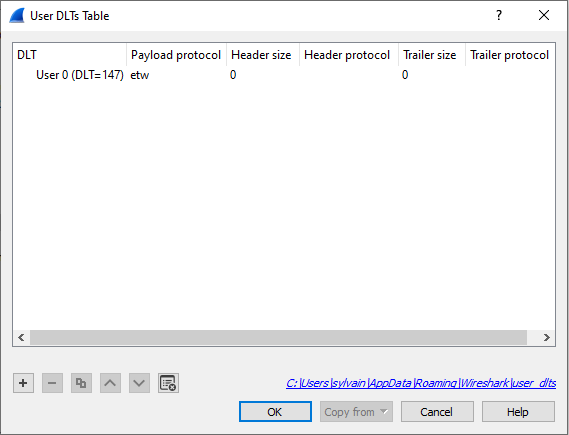
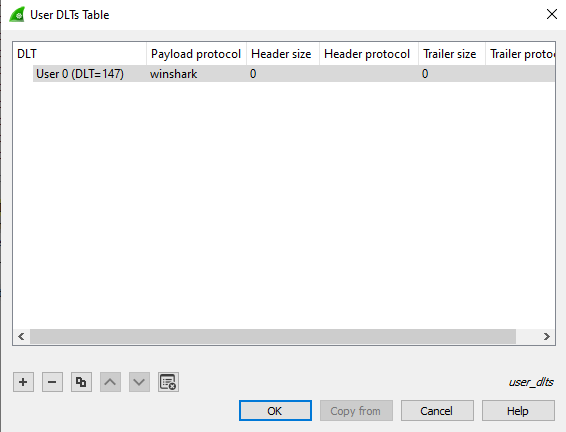
Fix issue #4

diff --git a/transluator/src/DissectorLua.cs b/transluator/src/DissectorLua.cs
@@ -13,8 +13,8 @@ namespace Transluator
     {
         public const string PROVIDER = @"
 local proto = Proto(""{0}"", ""{0}"")
-local event_id = Field.new(""etw.header.EventDescriptor.Id"")
-local event_version = Field.new(""etw.header.EventDescriptor.Version"")
+local event_id = Field.new(""winshark.header.EventDescriptor.Id"")
+local event_version = Field.new(""winshark.header.EventDescriptor.Version"")
 local dissector_table = DissectorTable.new(""{0}"", ""{0} {1}"", ftypes.STRING)
 local protocols = {{}}
 local current_protocol = nil
@@ -25,8 +25,8 @@ function proto.dissector(buffer, pinfo, tree)
     local version = event_version()
 	dissector_table:try(tostring(id) .. ""."" .. tostring(version) , buffer, pinfo, tree)
 end
-local etw_dissector_table = DissectorTable.get(""etw"")
-etw_dissector_table:add(""{1}"", proto)
+local winshark_dissector_table = DissectorTable.get(""winshark"")
+winshark_dissector_table:add(""{1}"", proto)
 ";
         public const string EVENT_HEADER = @"current_protocol = Proto(""{0}.{1}.{2}"", ""{0} EventId({1}) Version({2})"")";
         public const string EVENT_FIELD_NAME = @"{0}_{1}";

diff --git a/CHANGELOG.md b/CHANGELOG.md
@@ -1,0 +1,4 @@
+# 1.1.0
+* Fix issue #2 that don't allow to install wireshark in a non standard folder
+* Fix issue #4 Rename protocol from ETW to `winshark`
+* Add support for PkMon (thanks @Blondy314)
